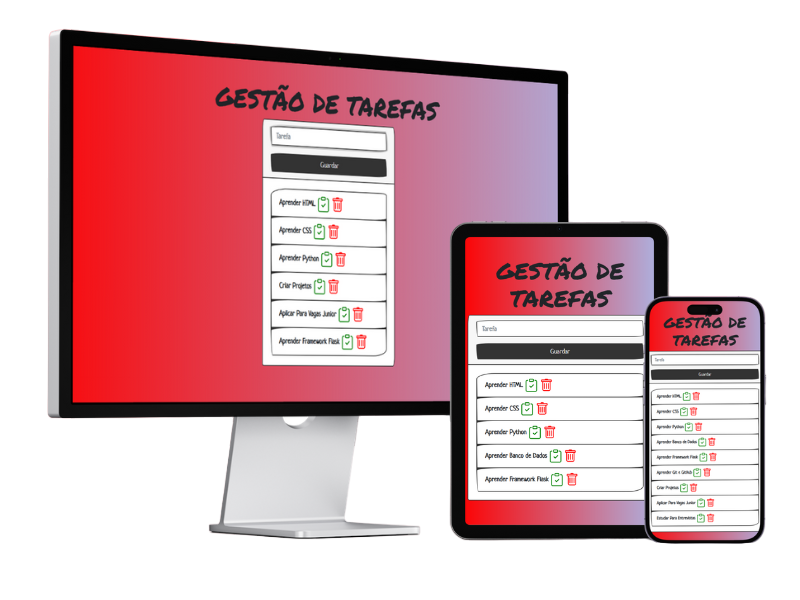
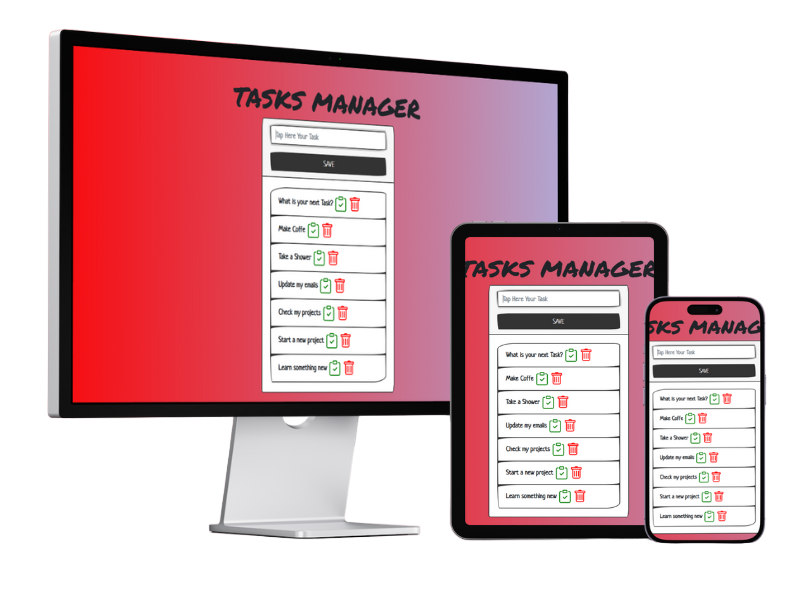
new update

Changed region(s): [[0.5625, 0.39, 0.9688, 0.9], [0.25, 0.12, 0.5625, 0.66]]

diff --git a/app/templates/tasksmanager.html b/app/templates/tasksmanager.html
@@ -1,0 +1,66 @@
+<!DOCTYPE html>
+<html lang="en">
+<head>
+    <meta charset="UTF-8">
+    <meta name="viewport" content="width=device-width, initial-scale=1.0">
+    <link rel="icon" href="{{ url_for('static', filename='images/favicon-tasks.png') }}" type="image/xx-icon">
+    <title>Tasks Manager</title>
+    <!-- Bootstrap 4 -->
+    <link rel="stylesheet" href="https://cdn.jsdelivr.net/npm/bootswatch@4.5.2/dist/sketchy/bootstrap.min.css"
+          integrity="sha384-RxqHG2ilm4r6aFRpGmBbGTjsqwfqHOKy1ArsMhHusnRO47jcGqpIQqlQK/kmGy9R" crossorigin="anonymous">
+    <!-- Fontes do Google Fonts -->
+    <link href="https://fonts.googleapis.com/css2?family=Permanent+Marker&display=swap" rel="stylesheet">
+    <!-- Folha de estilo (main.css) -->
+    <link rel="stylesheet" href="{{ url_for('static', filename='style_tasks.css') }}">
+    <!-- Font Awesome-->
+    <link rel="stylesheet" href="https://cdn.jsdelivr.net/npm/@fortawesome/fontawesome-free@6.2.1/css/fontawesome.min.css"
+          integrity="sha384-QYIZto+st3yW+o8+5OHfT6S482Zsvz2WfOzpFSXMF9zqeLcFV0/wlZpMtyFcZALm" crossorigin="anonymous">
+</head>
+
+<body>
+    <main class="container p-4">
+        <h1 class="display-4 text-center mt-4 title">TASKS MANAGER</h1>
+        <div class="row">
+            <div class="col-md-4 offset-md-4 my-auto">
+                <div class="card">
+                    <div class="card-header">
+                        <form action="/create-task" method="post">
+                            <div class="form-group">
+                                <input type="text" name="task-content" placeholder="Tap Here Your Task" class="form-control" autofocus>
+                            </div>
+                            <button type="submit" class="btn btn-primary btn-block">
+                                SAVE
+                            </button>
+                        </form>
+                    </div>
+                    <div class="card-body">
+                        <ul class="list-group">
+                            {% for task in tasks_list %}
+                            <li class="list-group-item">
+                                <span class="{% if task.done==true %} done_task {% endif %}">
+                                    {{ task.content }}
+                                </span>
+                                <a href="/task-done/{{ task.id }}" style="text-decoration:none">
+                                    <svg xmlns="http://www.w3.org/2000/svg" width="2em" height="2em" fill="green" class="bi bi-clipboard-check" viewBox="0 0 16 16">
+                                        <path fill-rule="evenodd" d="M10.854 7.146a.5.5 0 0 1 0 .708l-3 3a.5.5 0 0 1-.708 0l-1.5-1.5a.5.5 0 1 1 .708-.708L7.5 9.793l2.646-2.647a.5.5 0 0 1 .708 0z"/>
+                                        <path d="M4 1.5H3a2 2 0 0 0-2 2V14a2 2 0 0 0 2 2h10a2 2 0 0 0 2-2V3.5a2 2 0 0 0-2-2h-1v1h1a1 1 0 0 1 1 1V14a1 1 0 0 1-1 1H3a1 1 0 0 1-1-1V3.5a1 1 0 0 1 1-1h1v-1z"/>
+                                        <path d="M9.5 1a.5.5 0 0 1 .5.5v1a.5.5 0 0 1-.5.5h-3a.5.5 0 0 1-.5-.5v-1a.5.5 0 0 1 .5-.5h3zm-3-1A1.5 1.5 0 0 0 5 1.5v1A1.5 1.5 0 0 0 6.5 4h3A1.5 1.5 0 0 0 11 2.5v-1A1.5 1.5 0 0 0 9.5 0h-3z"/>
+                                    </svg>
+                                </a>
+                                <a href="/delete-task/{{ task.id }}" style="text-decoration:none">
+                                    <svg xmlns="http://www.w3.org/2000/svg" width="2em" height="2em" fill="red" class="bi bi-trash" viewBox="0 0 16 16">
+                                        <path d="M5.5 5.5A.5.5 0 0 1 6 6v6a.5.5 0 0 1-1 0V6a.5.5 0 0 1 .5-.5Zm2.5 0a.5.5 0 0 1 .5.5v6a.5.5 0 0 1-1 0V6a.5.5 0 0 1 .5-.5Zm3 .5a.5.5 0 0 0-1 0v6a.5.5 0 0 0 1 0V6Z"/>
+                                        <path d="M14.5 3a1 1 0 0 1-1 1H13v9a2 2 0 0 1-2 2H5a2 2 0 0 1-2-2V4h-.5a1 1 0 0 1-1-1V2a1 1 0 0 1 1-1H6a1 1 0 0 1 1-1h2a1 1 0 0 1 1 1h3.5a1 1 0 0 1 1 1v1ZM4.118 4 4 4.059V13a1 1 0 0 0 1 1h6a1 1 0 0 0 1-1V4.059L11.882 4H4.118ZM2.5 3h11V2h-11v1Z"/>
+                                    </svg>
+                                </a>
+                            </li>
+                            {% endfor %}
+                        </ul>
+                    </div>
+                </div>
+            </div>
+        </div>
+    </main>
+</body>
+
+</html>

diff --git a/app/static/style_tasks.css b/app/static/style_tasks.css
@@ -1,0 +1,11 @@
+body {
+    background: #acb6e5;  /* fallback for old browsers */
+    background: -webkit-linear-gradient(to right, #86fde8, #acb6e5);  /* Chrome 10-25, Safari 5.1-6 */
+    background: linear-gradient(to right, #FF0000, #acb6e5); /* W3C, IE 10+/ Edge, Firefox 16+, Chrome 26+, Opera 12+, Safari 7+ */
+}
+.title {
+    font-family: 'Permanent Marker', cursive;
+}
+.done_task {
+    text-decoration: line-through;
+    color: #ggdd55

diff --git a/app/controllers/routes.py b/app/controllers/routes.py
@@ -1,6 +1,6 @@
 from app import app, database
-from flask import render_template, request, jsonify, send_file
-from app.models.tables_db import CardProject
+from flask import render_template, request, jsonify, send_file, redirect, url_for
+from app.models.tables_db import CardProject, Tasks
 from werkzeug.utils import safe_join
 
 
@@ -27,3 +27,32 @@ def like():
 def download_curriculum():
     curriculum_file_path = safe_join(app.root_path, 'static', 'files', 'Anderson Albuquerque.pdf')
     return send_file(curriculum_file_path, as_attachment=True)
+
+
+@app.route('/tasks')
+def home():
+    all_tasks = Tasks.query.all()
+    return render_template("tasksmanager.html", tasks_list=all_tasks)
+
+
+@app.route('/create-task', methods=['POST'])
+def create():
+    task = Tasks(content=request.form['task-content'], done=False)
+    database.session.add(task)
+    database.session.commit()
+    return redirect(url_for('home'))
+
+
+@app.route('/delete-task/<id>')
+def delete(id):
+    deleting_task = Tasks.query.filter_by(id=int(id)).delete()
+    database.session.commit()
+    return redirect(url_for('home'))
+
+
+@app.route('/task-done/<id>')
+def done(id):
+    done_task = Tasks.query.filter_by(id=int(id)).first()
+    done_task.done = True
+    database.session.commit()
+    return redirect(url_for('home'))

diff --git a/app/models/tables_db.py b/app/models/tables_db.py
@@ -24,3 +24,10 @@ class CardProject(database.Model):
     # Under we have the function show how will see when search em db
     def __repr__(self):
         return "<CardProject %r>" % self.title
+
+
+class Tasks(database.Model):
+    __tablename__ = "tasks"
+    id = database.Column(database.Integer, primary_key=True)
+    content = database.Column(database.String(200), nullable=True)
+    done = database.Column(database.Boolean)

diff --git a/app/__init__.py b/app/__init__.py
@@ -6,4 +6,4 @@ app.config['SQLALCHEMY_DATABASE_URI'] = 'sqlite:///../database/storage.db'
 app.config['DEBUG'] = True
 database = SQLAlchemy(app)
 
-from app.controllers import default
+from app.controllers import routes

diff --git a/run.py b/run.py
@@ -1,5 +1,5 @@
 from app import app, database
-from app.models.tables_db import CardProject
+from app.models.tables_db import CardProject, Tasks
 
 with app.app_context():
     database.create_all()
